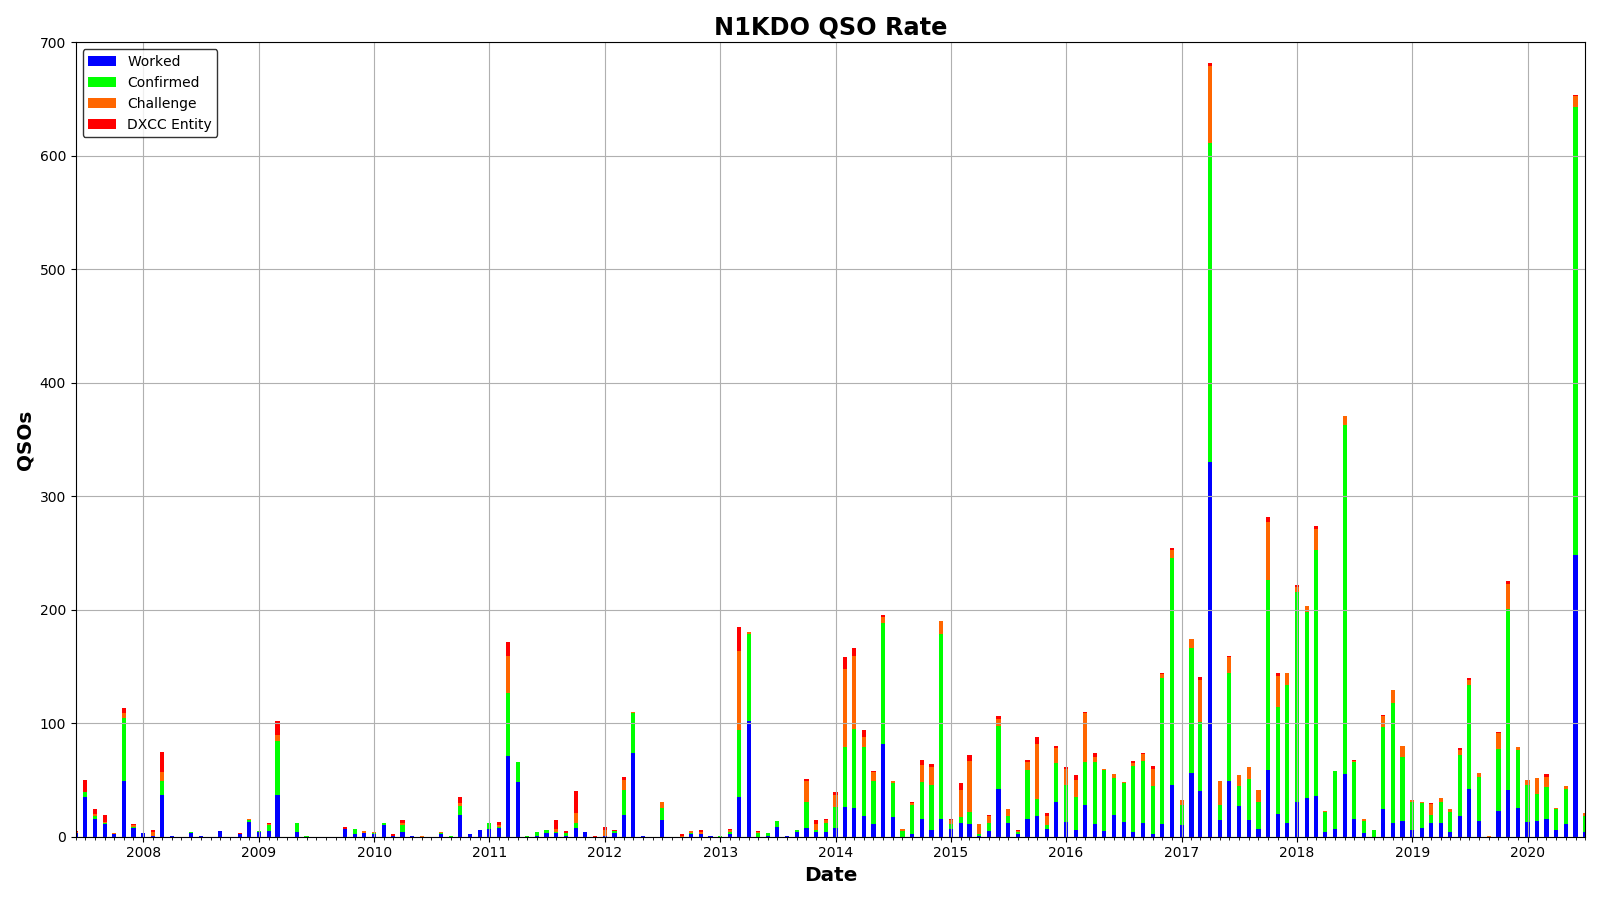
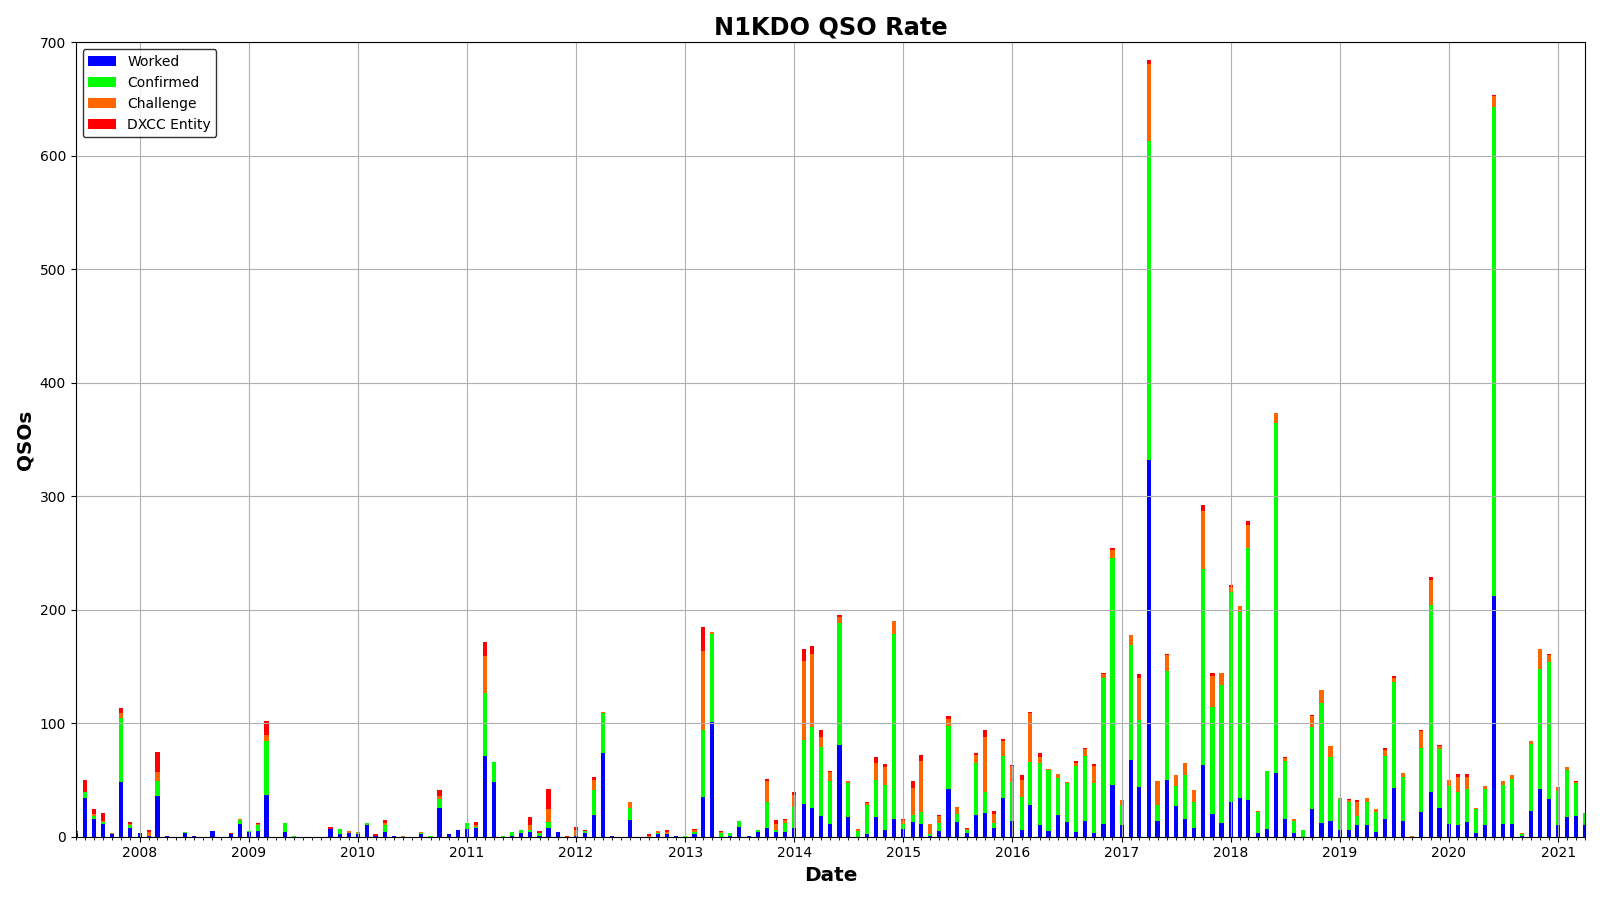
new chart qsos mode rate shows mode of QSOs over time.

Changed region(s): [[0.0625, 0.1244, 1.0, 0.9644], [0.0938, 0.1244, 0.1562, 0.1556], [0.0938, 0.0622, 0.125, 0.0933]]

diff --git a/qso_charts.py b/qso_charts.py
@@ -12,6 +12,8 @@ import cartopy.crs as ccrs
 import cartopy.feature as cfeature
 import shapely.geometry as sgeom
 
+import adif
+
 WIDTH_INCHES = 16
 HEIGHT_INCHES = 9
 FG = 'k'
@@ -427,6 +429,90 @@ def plot_qsos_band_rate(date_records, title, filename=None, start_date=None, end
         plt.show()
     plt.close(fig)
     logging.debug('plot_qsos_band_rate(...,%s, %s) done' % (title, filename))
+    return
+
+
+def plot_qsos_mode_rate(date_records, title, filename=None, start_date=None, end_date=None):
+    """
+    make the chart
+    """
+    logging.debug('plot_qsos_mode_rate(...,%s, %s)' % (title, filename))
+
+    #challenge_bands = ['160M', '80M', '40M', '30M', '20M', '17M', '15M', '12M', '10M', '6M']
+    #colors = ['violet', 'g', 'b', 'c', 'r', '#ffff00', '#ff6600', '#00ff00', '#663300', '#00ffff']
+    # currently there are 4 modes defined in adif.MODES
+    colors = ['r', 'g', 'c', 'b']
+    data = [[], [], [], []]
+    dates = []
+
+    for counts in date_records:
+        qdate = counts['qdate']
+        if (start_date is None or qdate >= start_date) and (end_date is None or qdate <= end_date):
+            dates.append(qdate)
+            sum = 0
+            for i in range(0, len(adif.MODES)):
+                mode_count = counts[adif.MODES[i]]
+                sum += mode_count
+                data[i].append(mode_count)
+
+    dates, data = make_bins(dates, data)
+    maxy = 0
+    for i in range(0, len(data[0])):
+        total = 0
+        for j in range(0, len(adif.MODES)):
+            total += data[j][i]
+        if total > maxy:
+            maxy = total
+    delta = (dates[-1] - dates[0]).days
+
+    fig = plt.Figure(figsize=(WIDTH_INCHES, HEIGHT_INCHES), dpi=100, tight_layout=True)
+    ax = fig.add_subplot(111, facecolor=BG)
+    ax.set_title(title, color=FG, size='xx-large', weight='bold')
+
+    dates = matplotlib.dates.date2num(dates)
+    if start_date is None:
+        start_date = dates[0]
+    if end_date is None:
+        end_date = dates[-1]
+    ax.set_xlim(start_date, end_date)
+    ax.set_ylim(0, auto_scale(maxy))
+
+    width = delta / 365
+
+    offset = np.zeros((len(dates)), dtype=np.int32)
+    for i in range(0, len(adif.MODES)):
+        ta = np.array(data[i])
+        ax.bar(dates, ta, width, bottom=offset, color=colors[i], label=adif.MODES[i])
+        offset += ta
+
+    ax.grid(True)
+
+    ax.tick_params(axis='y', colors=FG, which='both', direction='out')
+    ax.tick_params(axis='x', colors=FG, which='both', direction='out', top=False)
+    ax.set_ylabel('QSOs', color=FG, size='x-large', weight='bold')
+    ax.set_xlabel('Date', color=FG, size='x-large', weight='bold')
+
+    ax.spines['left'].set_color(FG)
+    ax.spines['right'].set_color(FG)
+    ax.spines['top'].set_color(FG)
+    ax.spines['bottom'].set_color(FG)
+
+    ax.xaxis.set_major_locator(YearLocator())
+    ax.xaxis.set_minor_locator(MonthLocator())
+    ax.xaxis.set_major_formatter(DateFormatter('%Y'))
+    # ax.xaxis.set_minor_formatter(DateFormatter('%m'))
+    legend = ax.legend(loc='upper left', numpoints=1, facecolor=BG, edgecolor=FG)
+    for text in legend.get_texts():
+        text.set_color(FG)
+
+    if filename is not None:
+        canvas = agg.FigureCanvasAgg(fig)
+        canvas.draw()
+        fig.savefig(filename, facecolor=BG)
+    else:
+        plt.show()
+    plt.close(fig)
+    logging.debug('plot_qsos_mode_rate(...,%s, %s) done' % (title, filename))
     return
 
 

diff --git a/adif_log_analyzer.py b/adif_log_analyzer.py
@@ -340,9 +340,13 @@ def draw_charts(qso_list, callsign, start_date=None, end_date=None):
     qso_charts.plot_qsos_rate(date_records, callsign + ' QSO Rate',
                               callsign + '_qso_rate.png', start_date=start_date,
                               end_date=end_date)
-    logging.info('drawing QSO by Band chart')
-    qso_charts.plot_qsos_band_rate(date_records, callsign + ' QSO by Band',
+    logging.info('drawing QSO Rate by Band chart')
+    qso_charts.plot_qsos_band_rate(date_records, callsign + ' QSO Rate by Band',
                                    callsign + '_qsos_band_rate.png',
+                                   start_date=start_date, end_date=end_date)
+    logging.info('drawing QSO Rate by Mode chart')
+    qso_charts.plot_qsos_mode_rate(date_records, callsign + ' QSO Rate by Mode',
+                                   callsign + '_qsos_mode_rate.png',
                                    start_date=start_date, end_date=end_date)
     logging.info('drawing Challenge Band Slots chart')
     qso_charts.plot_challenge_bands_by_date(date_records, callsign + ' Challenge Band Slots',
